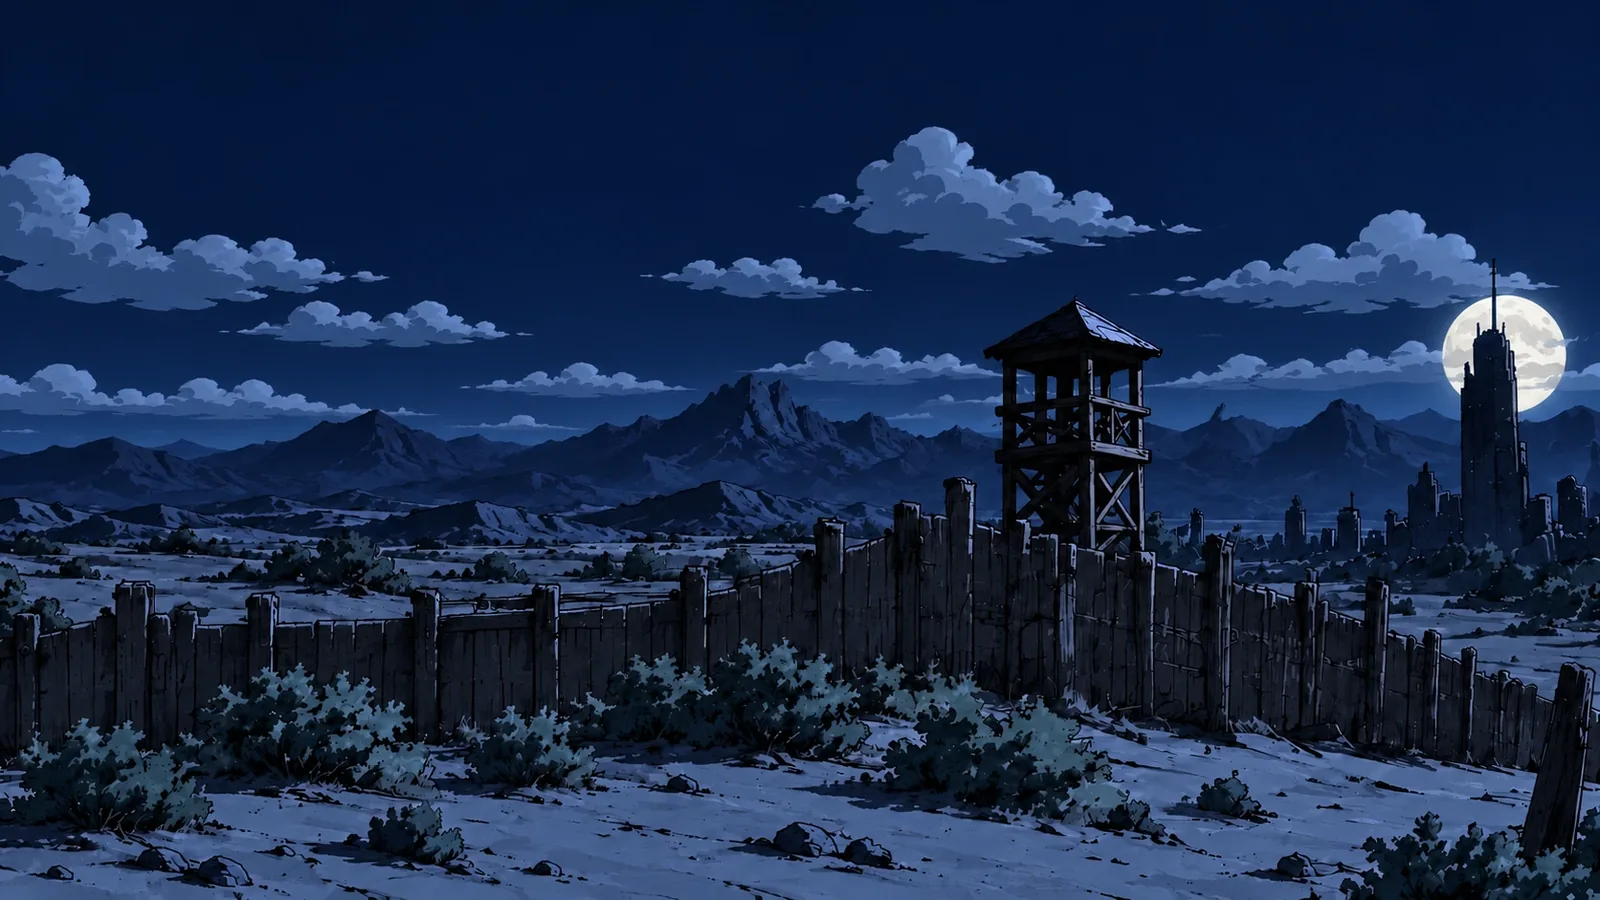
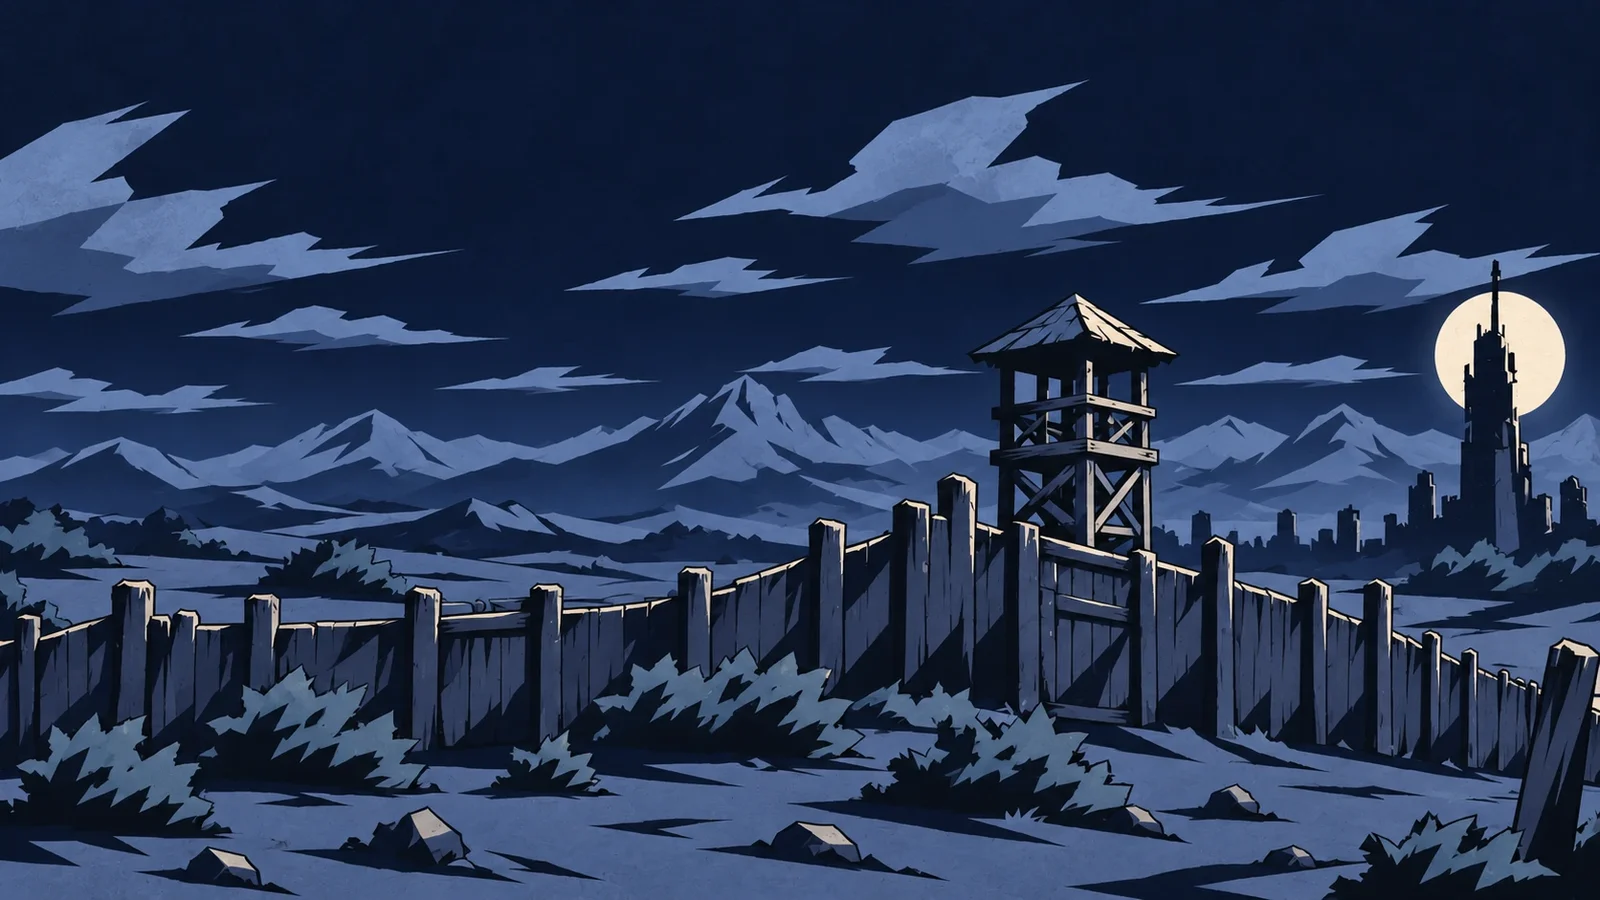
v263 : nouveaux décors jour, nuit et nuit rouge ; illustrations, cadre, plateau et bac prêts pour la mise en ligne
Claude-Session: https://claude.ai/code/session_01T2JmgHjzhcUBdR874hJ2La

diff --git a/index.html b/index.html
@@ -14,7 +14,7 @@
 <meta name="apple-mobile-web-app-status-bar-style" content="black-translucent">
 <meta name="apple-mobile-web-app-title" content="Barricard">
 <link rel="preload" as="image" href="assets/boot/logo.webp">
-<link rel="stylesheet" href="src/style.css?v=262">
+<link rel="stylesheet" href="src/style.css?v=263">
 <style>
 /* v254 : écran de chargement (src/game-load.js) : fond et logo de l'accueil (versions allégées, assets/boot/), barre dans le panneau noir, astuces écrites sur le fond. Ici pour être stylé avant style.css ; visible seulement après 0,4 s */
 #boot{position:fixed;inset:0;z-index:10000;display:flex;flex-direction:column;align-items:center;justify-content:space-between;background:#0b0a09 url(assets/boot/fond-portrait.webp) center/cover;opacity:0;animation:bootIn .3s ease-out .4s forwards;transition:opacity .35s}
@@ -75,23 +75,23 @@
 </div>
 <div class="overlay" id="ov"><div class="panel" id="panel"></div></div>
 
-<script src="src/i18n.js?v=262"></script>
-<script src="src/lang-en.js?v=262"></script>
-<script src="src/engine.js?v=262"></script>
-<script src="src/audio.js?v=262"></script>
-<script src="src/art-liste.js?v=262"></script>
-<script src="src/game.js?v=262"></script>
-<script src="src/game-draw.js?v=262"></script>
-<script src="src/game-ui.js?v=262"></script>
-<script src="src/game-screens.js?v=262"></script>
-<script src="src/game-menu.js?v=262"></script>
-<script src="src/game-anim.js?v=262"></script>
-<script src="src/game-fiche.js?v=262"></script>
-<script src="src/game-fx2.js?v=262"></script>
-<script src="src/game-artx.js?v=262"></script>
-<script src="src/game-coll.js?v=262"></script>
-<script src="src/game-fx3.js?v=262"></script>
-<script src="src/game-fx5.js?v=262"></script>
-<script src="src/game-load.js?v=262"></script>
+<script src="src/i18n.js?v=263"></script>
+<script src="src/lang-en.js?v=263"></script>
+<script src="src/engine.js?v=263"></script>
+<script src="src/audio.js?v=263"></script>
+<script src="src/art-liste.js?v=263"></script>
+<script src="src/game.js?v=263"></script>
+<script src="src/game-draw.js?v=263"></script>
+<script src="src/game-ui.js?v=263"></script>
+<script src="src/game-screens.js?v=263"></script>
+<script src="src/game-menu.js?v=263"></script>
+<script src="src/game-anim.js?v=263"></script>
+<script src="src/game-fiche.js?v=263"></script>
+<script src="src/game-fx2.js?v=263"></script>
+<script src="src/game-artx.js?v=263"></script>
+<script src="src/game-coll.js?v=263"></script>
+<script src="src/game-fx3.js?v=263"></script>
+<script src="src/game-fx5.js?v=263"></script>
+<script src="src/game-load.js?v=263"></script>
 </body>
 </html>

diff --git a/sw.js b/sw.js
@@ -2,7 +2,7 @@
    - Code (page, scripts, styles) : réseau d'abord, copie gardée pour jouer hors ligne. Les mises à jour arrivent donc tout de suite.
    - Images, sons, polices : copie locale d'abord (chargement instantané), rafraîchie en arrière-plan.
    - version.txt : toujours le réseau (vérification de mise à jour). */
-const CACHE = 'abri-4'; // v262 : nouvelle musique d'accueil (même nom de fichier)
+const CACHE = 'abri-5'; // v263 : nouvelles illustrations, cadre, plateau, bac et décors (mêmes noms de fichier)
 const CORE = [
   './',
   'index.html',

diff --git a/src/game.js b/src/game.js
@@ -544,7 +544,7 @@ const art = t => {
 };
 const cc = t => `var(--k-${Z.U[t].cat})`;
 // à changer à chaque mise en ligne : permet de vérifier sur le téléphone qu'on a la dernière version
-const VERSION = 'v262 · 8 nov.';
+const VERSION = 'v263 · 14 nov.';
 // Police des chiffres et étiquettes dessinés sur la carte (même que les boutons : Oswald)
 const FONT_CHIFFRE = '"Oswald", "Arial Narrow", sans-serif';
 /* démo publique (v153) : DEMO_BUILD passe à true seulement dans la copie envoyée sur la page itch.io de la démo

diff --git a/docs/CARTE_CODE.md b/docs/CARTE_CODE.md
@@ -229,7 +229,7 @@ preloadImg:11 inCache:24 preloadUi:35 preloadCards:41 bootUrls:52 bootStepLabel:
 
 ## src/style.css
 
-15189 lignes. Les règles s’empilent par version : **à sélecteur égal, la dernière l’emporte**. Le style artiste est sous `html.artx` (1113 lignes). Chercher un sélecteur avec `grep -n` plutôt que par section.
+15472 lignes. Les règles s’empilent par version : **à sélecteur égal, la dernière l’emporte**. Le style artiste est sous `html.artx` (1172 lignes). Chercher un sélecteur avec `grep -n` plutôt que par section.
 
 - 1 polices intégrées au jeu (licence SIL OFL), pour jouer sans internet
 - 2 v252 : Creepster, police d'horreur réservée au bouton « Affronter la nuit »
@@ -505,6 +505,13 @@ preloadImg:11 inCache:24 preloadUi:35 preloadCards:41 bootUrls:52 bootStepLabel:
 - 15050 v256 : téléphone tourné (large mais peu haut) : les 13 familles de la collection ne tienne
 - 15072 v257 : accueil sur PC : logo et boutons centrés en hauteur dans la colonne de gauche
 - 15078 v257 : collection sur téléphone tourné : 2 lignes de 5 cartes, grande carte plus haute ave
-- 15117 ===== v259 : énergie en cartouches de fusil (dessinées en SVG, cartoucheSvg dans game.js),
+- 15117 ===== v261 : énergie en cartouches de fusil (dessinées en SVG, cartoucheSvg dans game.js),
 - 15157 ===== v258 : points de la collection : écrou de ferraille sur le panneau noir =====
 - 15184 v260 : le décor de l'accueil reste fixe (ne suit plus la souris) ; lueurs et animations ga
+- 15189 v263 : nouveau cadre de carte d'Amine (assets/art/ui/cadre-barricard.webp, 728 × 1106, fen
+- 15239 reflet qui balaie l'illustration de temps en temps (coupé en mode économie et si l'apparei
+- 15304 dégâts et PV posés sur le bord bas du cadre : le parchemin reste au texte
+- 15342 v263 : coût, dégâts et PV en relief : pièces bombées (reflet en haut, ombre en bas, bord m
+- 15378 reflet bombé en haut de la pièce + éclat qui la traverse
+- 15422 chiffres gravés : clair en haut, ombre en bas, contour sombre
+- 15446 v263 : carte survolée (souris) ou touchée : elle grandit et monte au-dessus du bac pour se
